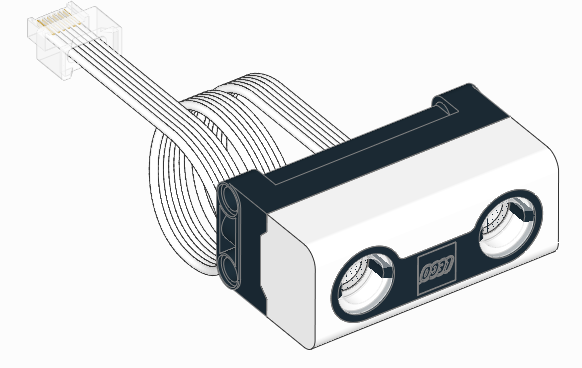
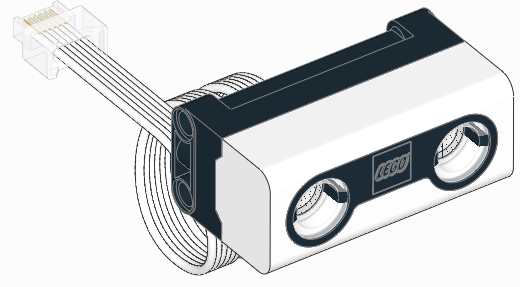
doc/pupdevices: flip ultrasonic sensor diagram

diff --git a/doc/api/pupdevices.rst b/doc/api/pupdevices.rst
@@ -145,8 +145,6 @@ Ultrasonic Sensor
 
 .. todo:: Support for this sensor is not yet implemented. API is experimental.
 
-    Flip image to ensure top/bottom left/right description is correct
-
 .. figure:: ../api/images/sensor_ultrasonic.png
    :width: 35 %
 
